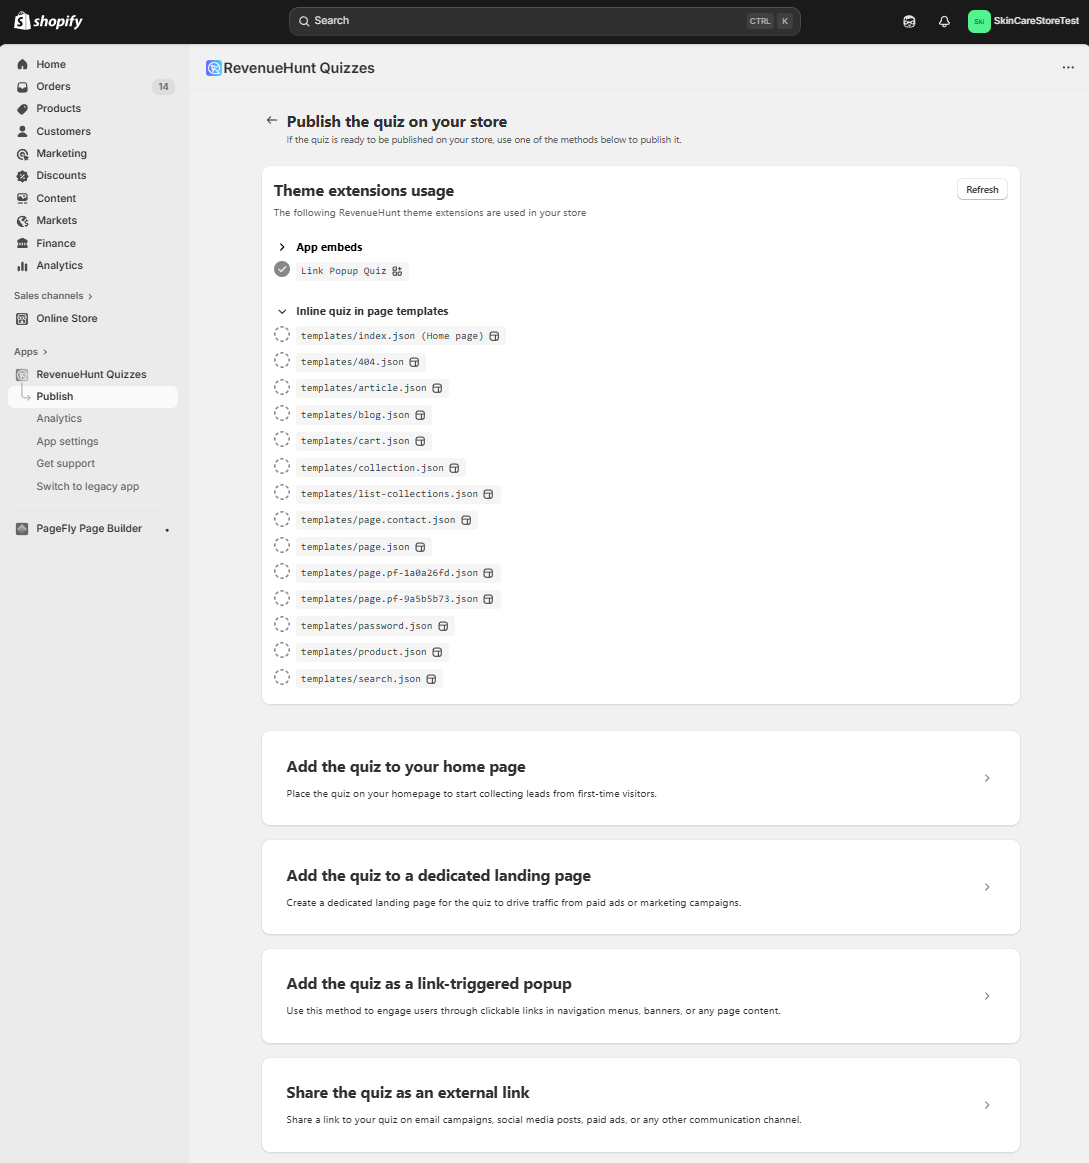
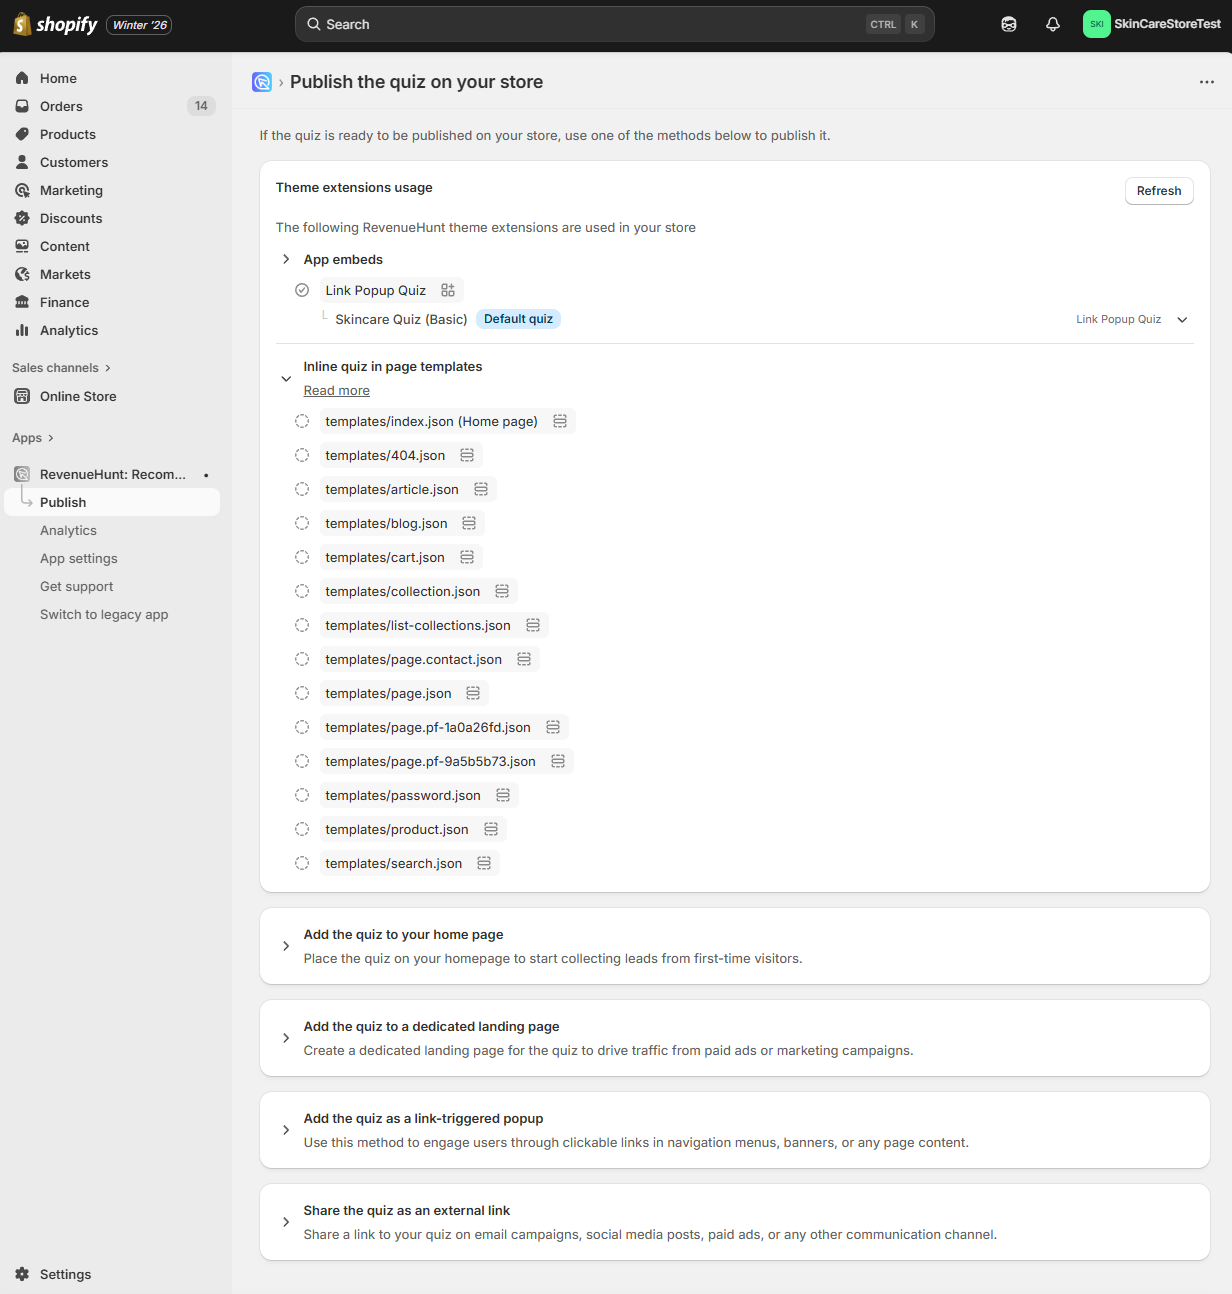
docs: update quiz builder share and publish documentation with new images and refined content for theme extension usage

diff --git a/docs/reference/quiz-builder/share-publish.md b/docs/reference/quiz-builder/share-publish.md
@@ -8,12 +8,9 @@
     
     ![manual_shopifyV2_quizbuilder_share_publish_publishpage](/images/manual_shopifyV2_quizbuilder_share_publish_publishpage.png)
 
-    `Theme extensions status` - Informs you if the RevenueHunt Quiz App theme extension is active and where it's installed in your Shopify store theme
+    `Theme extensions usage` - Informs you if the RevenueHunt Quiz App theme extension is active and where it's installed in your Shopify store theme
 
-    ![manual_shopifyv2_dashboard_notifications_themeextensionstatus](/images/manual_shopifyv2_dashboard_notifications_themeextensionstatus.png)
-
-    `Edit` - Opens the Theme Extension Status page.
-
+    `Refresh`- Refresh the theme extension usage status.
 
     Below, you will find step-by-step instructions on how to publish the default quiz onto your website. Click on the option tiles to see instructions and extra settings.
 
